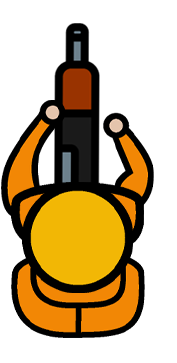
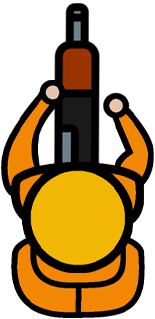
bullet position is not exactly right

diff --git a/main.py b/main.py
@@ -25,6 +25,10 @@ class Player(pygame.sprite.Sprite):
         self.hitbox_rect = self.base_player_image.get_rect(center=self.pos)
         # TO DRAW PLAYER ON SCREEN
         self.rect = self.hitbox_rect.copy()
+        # for bullet
+        self.shoot = False
+        self.shoot_cooldown = 0
+        self.gun_barrel_offset = pygame.math.Vector2(3, 2) # ill come back to it
 
     # ROTATION
     def player_rotation(self):
@@ -56,6 +60,21 @@ class Player(pygame.sprite.Sprite):
         if self.velocity_x != 0 and self.velocity_y != 0:
             self.velocity_y /= math.sqrt(2)
             self.velocity_x /= math.sqrt(2)
+        # for bullet
+        if pygame.mouse.get_pressed() == (1, 0, 0):
+            self.shoot = True
+            self.is_shooting()
+        else:
+            self.shoot = False
+
+
+    def is_shooting(self):
+        if self.shoot_cooldown == 0:
+            self.shoot_cooldown = 20
+            spawn_bullet_pos = self.pos + self.gun_barrel_offset.rotate(self.angle)
+            self.bullet = Bullet(spawn_bullet_pos[0], spawn_bullet_pos[1], self.angle)
+            bullet_group.add(self.bullet)
+            all_sprites_group.add(self.bullet)
 
     # CHANGE POSITION
     def move(self):
@@ -69,29 +88,70 @@ class Player(pygame.sprite.Sprite):
         self.move()
         self.player_rotation()
 
+        if self.shoot_cooldown > 0:
+            self.shoot_cooldown -= 1
+
+
+class Bullet(pygame.sprite.Sprite):
+    def __init__(self, x, y, bullet_angle): # change x,y name
+        super().__init__()
+        self.image = pygame.transform.rotozoom(pygame.image.load('images/bullet.png').convert_alpha(), 0, 2)
+        self.rect = self.image.get_rect() #fix name later
+        self.rect.center = (x, y)
+        self.x = x
+        self.y = y
+        self.speed = 30
+        self.bullet_angle = bullet_angle - 90
+        self.x_vel = math.cos(self.bullet_angle * (2*math.pi/360)) * self.speed # change name later
+        self.y_vel = math.sin(self.bullet_angle * (2*math.pi/360)) * self.speed #here too
+        self.bullet_lifetime = 750
+        self.spawn_time = pygame.time.get_ticks() # time bullet was created
+    def bullet_movement(self):
+        self.x += self.x_vel
+        self.y += self.y_vel
+
+        self.rect.x = int(self.x)
+        self.rect.y = int(self.y)
+        if pygame.time.get_ticks() - self.spawn_time > self.bullet_lifetime:
+            self.kill()  # if timer - the timer for the bullet creation is grater than bullet lifetime -  KILL IT
+
+    def update_movement(self):
+        self.bullet_movement()
+
+
 
 # CREATE INSTANCE OF PLAYER
 player = Player()
+
+all_sprites_group = pygame.sprite.Group()
+bullet_group = pygame.sprite.Group()
+
+all_sprites_group.add(player)
 
 # GAME LOOP
 running = True
 while running:
 
     # fill the screen with a color to wipe away anything from last frame
-    screen.fill((0, 0, 0))
+    screen.fill((245, 245, 220))
 
     # HANDLE EVENTS/ pygame.QUIT event means the user clicked X to close your window
     for event in pygame.event.get():
         if event.type == pygame.QUIT:
             running = False
 
-    # RENDER PLAYER
-    screen.blit(player.image, player.rect)
-    # CALL FUNCTION TO UPDATE PLAYER STATE
-    player.update()
+    # # RENDER PLAYER
+    # screen.blit(player.image, player.rect)
+    # # CALL FUNCTION TO UPDATE PLAYER STATE
+    # player.update()
     pygame.draw.rect(screen, "red", player.hitbox_rect, width=2)
     pygame.draw.rect(screen, "yellow", player.rect, width=2)
 
+    for bullet in bullet_group.sprites():
+        bullet.update_movement()
+
+    all_sprites_group.draw(screen)
+    all_sprites_group.update()
 
     pygame.display.update()
     clock.tick(60)  # limits FPS to 60
